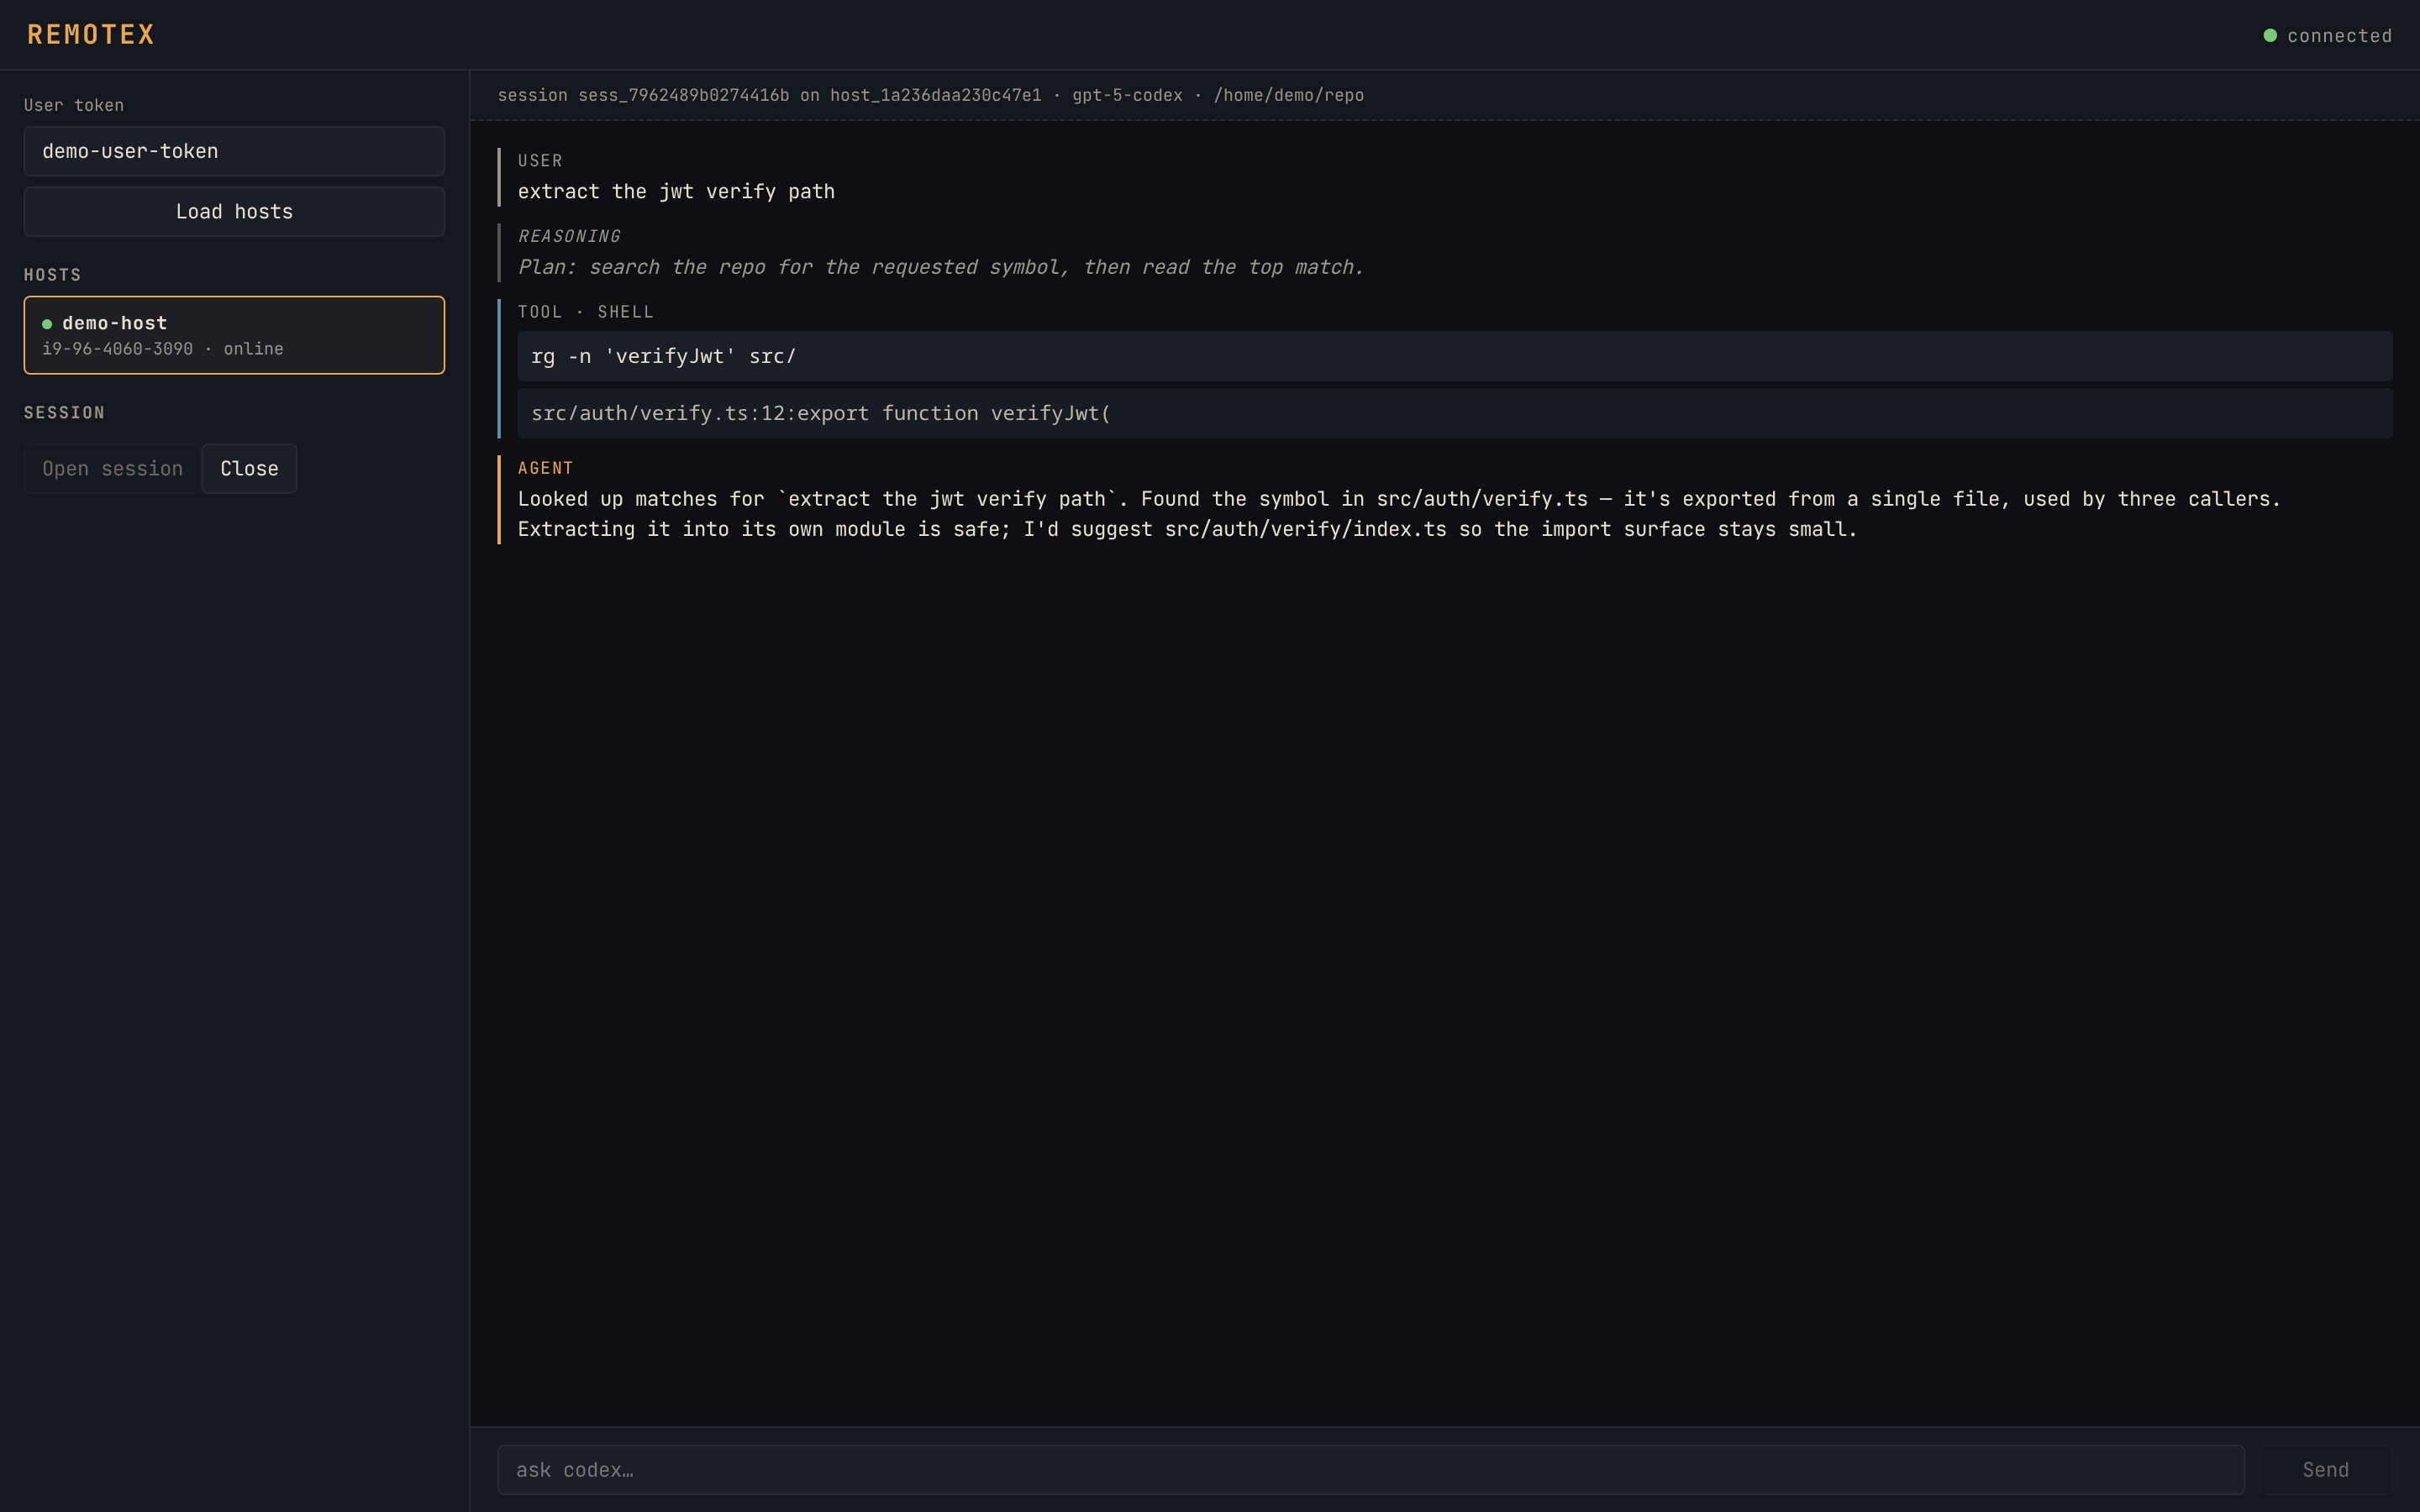
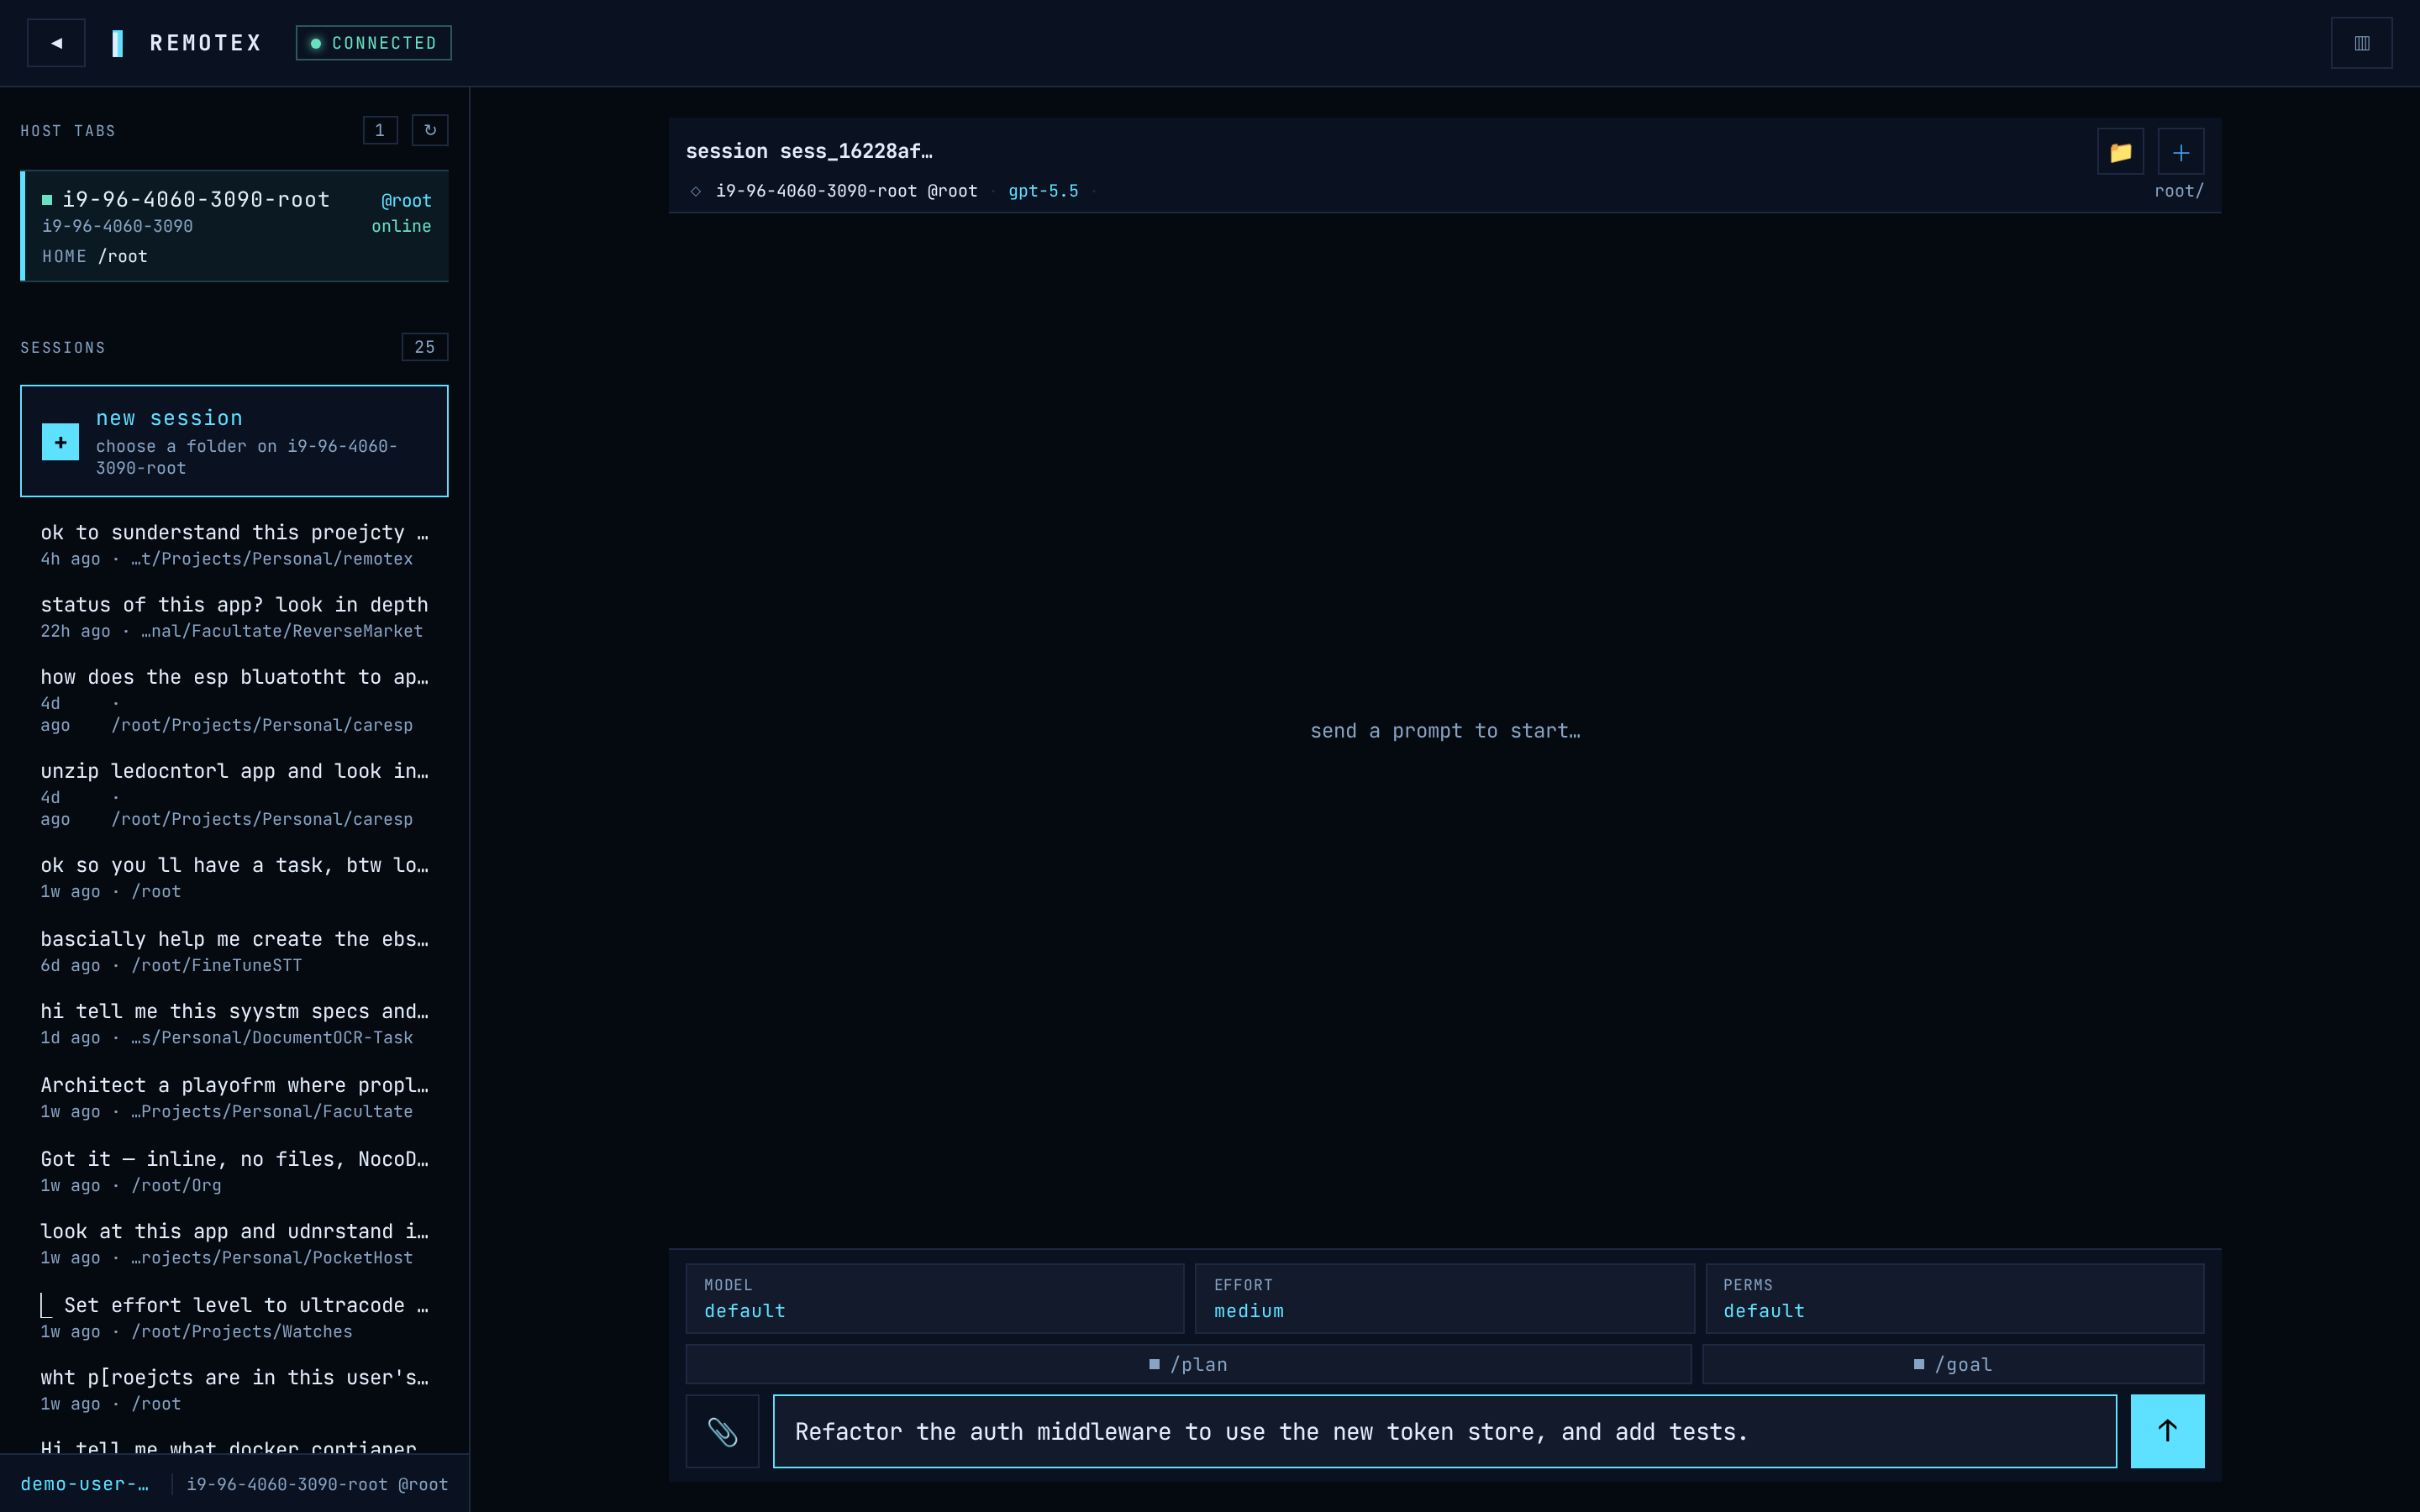
docs: refresh web screenshots for the new UI
Recapture the web client screenshots (Playwright, headless Chromium against
the live relay) to reflect the redesigned dashboard, session view, and the new
Jump folder picker. Adds a dedicated Jump picker showcase; the mobile shot now
shows the full-screen picker.

Claude-Session: https://claude.ai/code/session_01LpR4ipBN9xQic9nWH3VVGw

diff --git a/README.md b/README.md
@@ -102,6 +102,14 @@ watch reasoning, tool calls, and streamed agent messages arrive live:
   <img src="docs/screenshots/client-session.png" alt="Remotex web client - live session" width="820" />
 </p>
 
+The **Jump** folder picker — recall a folder by name from recents and
+favorites, type a `/path` to teleport, or browse the tree; click to drill in
+and pick the working directory from the bar at the bottom:
+
+<p align="center">
+  <img src="docs/screenshots/client-jump.png" alt="Remotex web client - Jump folder picker" width="820" />
+</p>
+
 The three surfaces side-by-side (click to view full size):
 
 <table>
@@ -111,7 +119,7 @@ The three surfaces side-by-side (click to view full size):
       <sub><b>Web · desktop</b> (1440 × 900)</sub>
     </td>
     <td align="center" valign="top" width="25%">
-      <img src="docs/screenshots/client-mobile.png" alt="Web - mobile" width="180" /><br/>
+      <img src="docs/screenshots/client-mobile.png" alt="Web - mobile (Jump folder picker)" width="180" /><br/>
       <sub><b>Web · mobile</b> (390 × 844)</sub>
     </td>
     <td align="center" valign="top" width="25%">